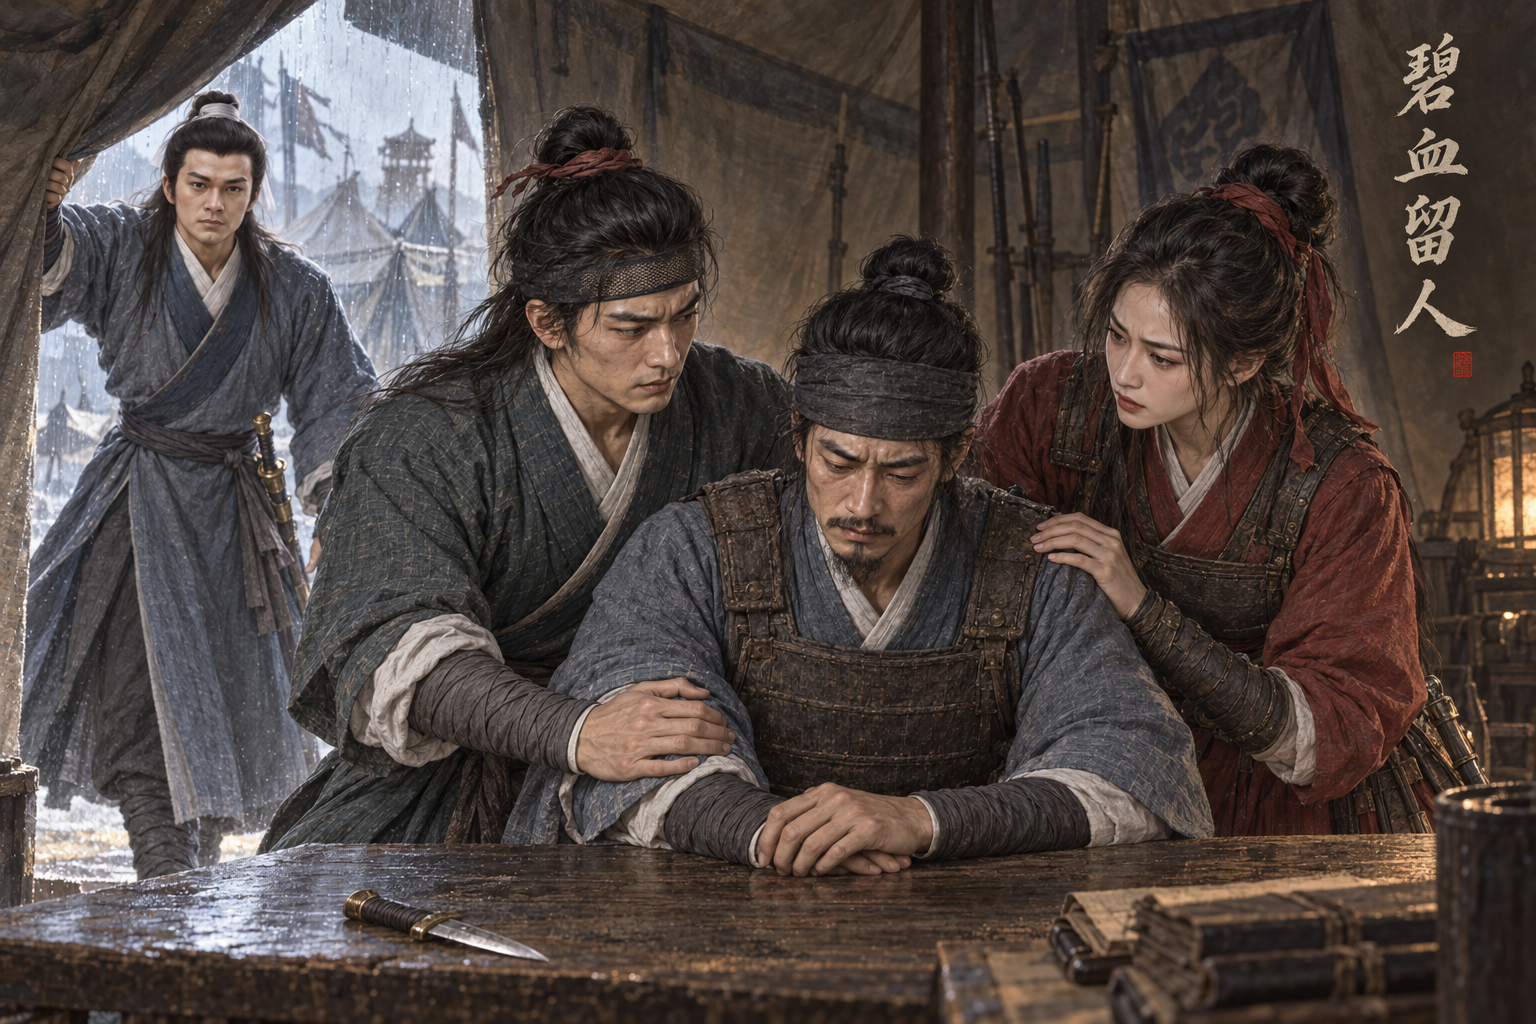
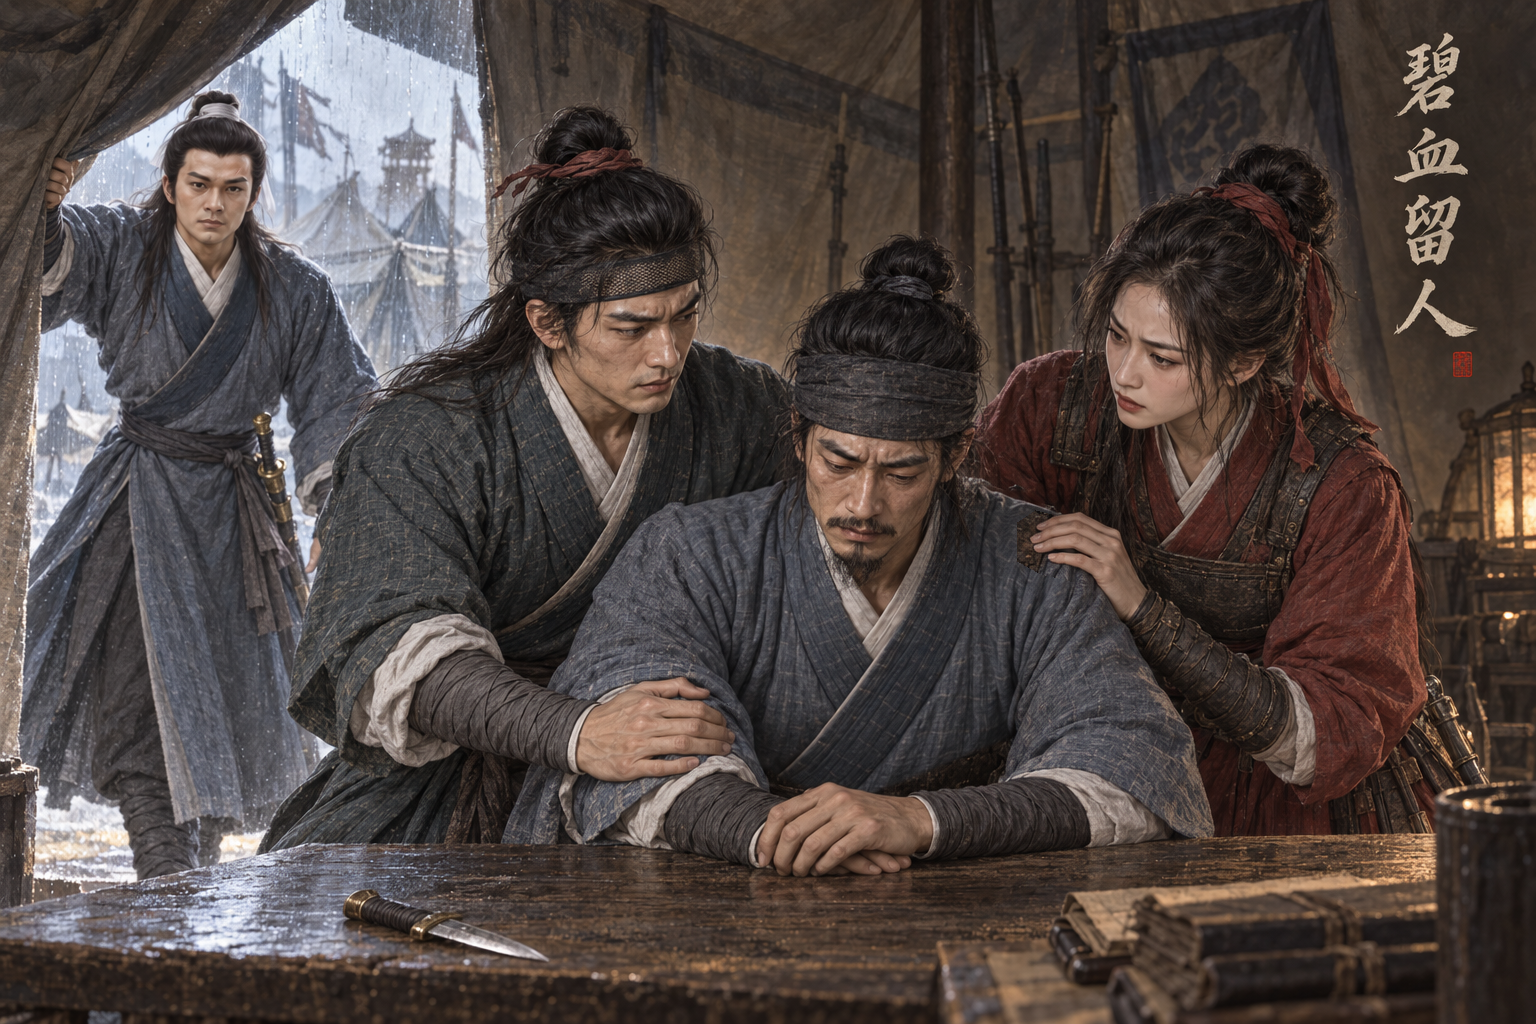
assets: AR-82 原著核对返修 碧血留人李岩去胸甲并补袁承志左眉旧疤
碧血留人李岩去胸甲并补袁承志左眉旧疤；原著摘句已同步提示词；蒙版外变化0像素。

Executed-By: Codex gpt-6.1-sol（AR-82）

Changed region(s): [[0.4375, 0.4375, 0.6875, 0.7812]]

diff --git a/assets/default/prompts/scenes/ch07-bixue/cg_ch07_liyan_rescue.md b/assets/default/prompts/scenes/ch07-bixue/cg_ch07_liyan_rescue.md
@@ -27,6 +27,12 @@ redo_reason: "作者 10-02 晚：复合基线风格精修"
 composite_job: cg_ch07_liyan_rescue.resume3
 ---
 
+## AR-82 当前定稿要求
+
+只做两处局部编辑：前景中间坐着、伏桌的李岩，去掉胸甲和甲片肩带，以原青布书生长衫自然补齐，保留儒巾、本人脸、交领、姿势与双手；后景画面最左侧白束发蓝衫袁承志，在自身左眉上方（画面右眉）添一处淡小旧刀疤。扶李岩的那名男子的手和红衣女子的手以及他们的全部身体必须原样，不能动。其余人、桌面、匕首、室内、题字不变。
+
+以上为当前原著核对后的要求，覆盖下文旧版中与之冲突的服饰、器物、伤残、光线和体态描述。
+
 ## Gemini 提示词
 
 > 作者10-02晚复合精修；任务 `cg_ch07_liyan_rescue.resume3`；实际上传顺序见frontmatter，末两张为male项目基线。
@@ -67,3 +73,8 @@ composite_job: cg_ch07_liyan_rescue.resume3
 排除项：不要文字、题字、字幕、水印、签名、Logo、边框或分镜格；不要未指定的多余人物（明确要求的远景群像除外）；不要幼态、儿童体态、性化处理、裸露或恋物特写；不要血腥特写、断肢、尸体堆叠或伤口细节；不要真人、演员、影视剧照复刻；不要多余肢体、手指错误、脸部融合、身份串脸、时代错装、现代物件、动漫风、摄影棚感、3D 塑料感。
 ```
 
+## 原著依据
+
+- 《碧血剑》三《经年亲剑铗，长日对楸枰》：“小小疤痕”（https://xuges.com/WUXIA/jinyong/bxj/013.htm）
+- 《碧血剑》四《矫矫金蛇剑，翩翩美少年》：“身穿书生服色”（https://xuges.com/WUXIA/jinyong/bxj/021.htm）
+- AR-82 返修约束：只做两处局部编辑：前景中间坐着、伏桌的李岩，去掉胸甲和甲片肩带，以原青布书生长衫自然补齐，保留儒巾、本人脸、交领、姿势与双手；后景画面最左侧白束发蓝衫袁承志，在自身左眉上方（画面右眉）添一处淡小旧刀疤。扶李岩的那名男子的手和红衣女子的手以及他们的全部身体必须原样，不能动。其余人、桌面、匕首、室内、题字不变。
